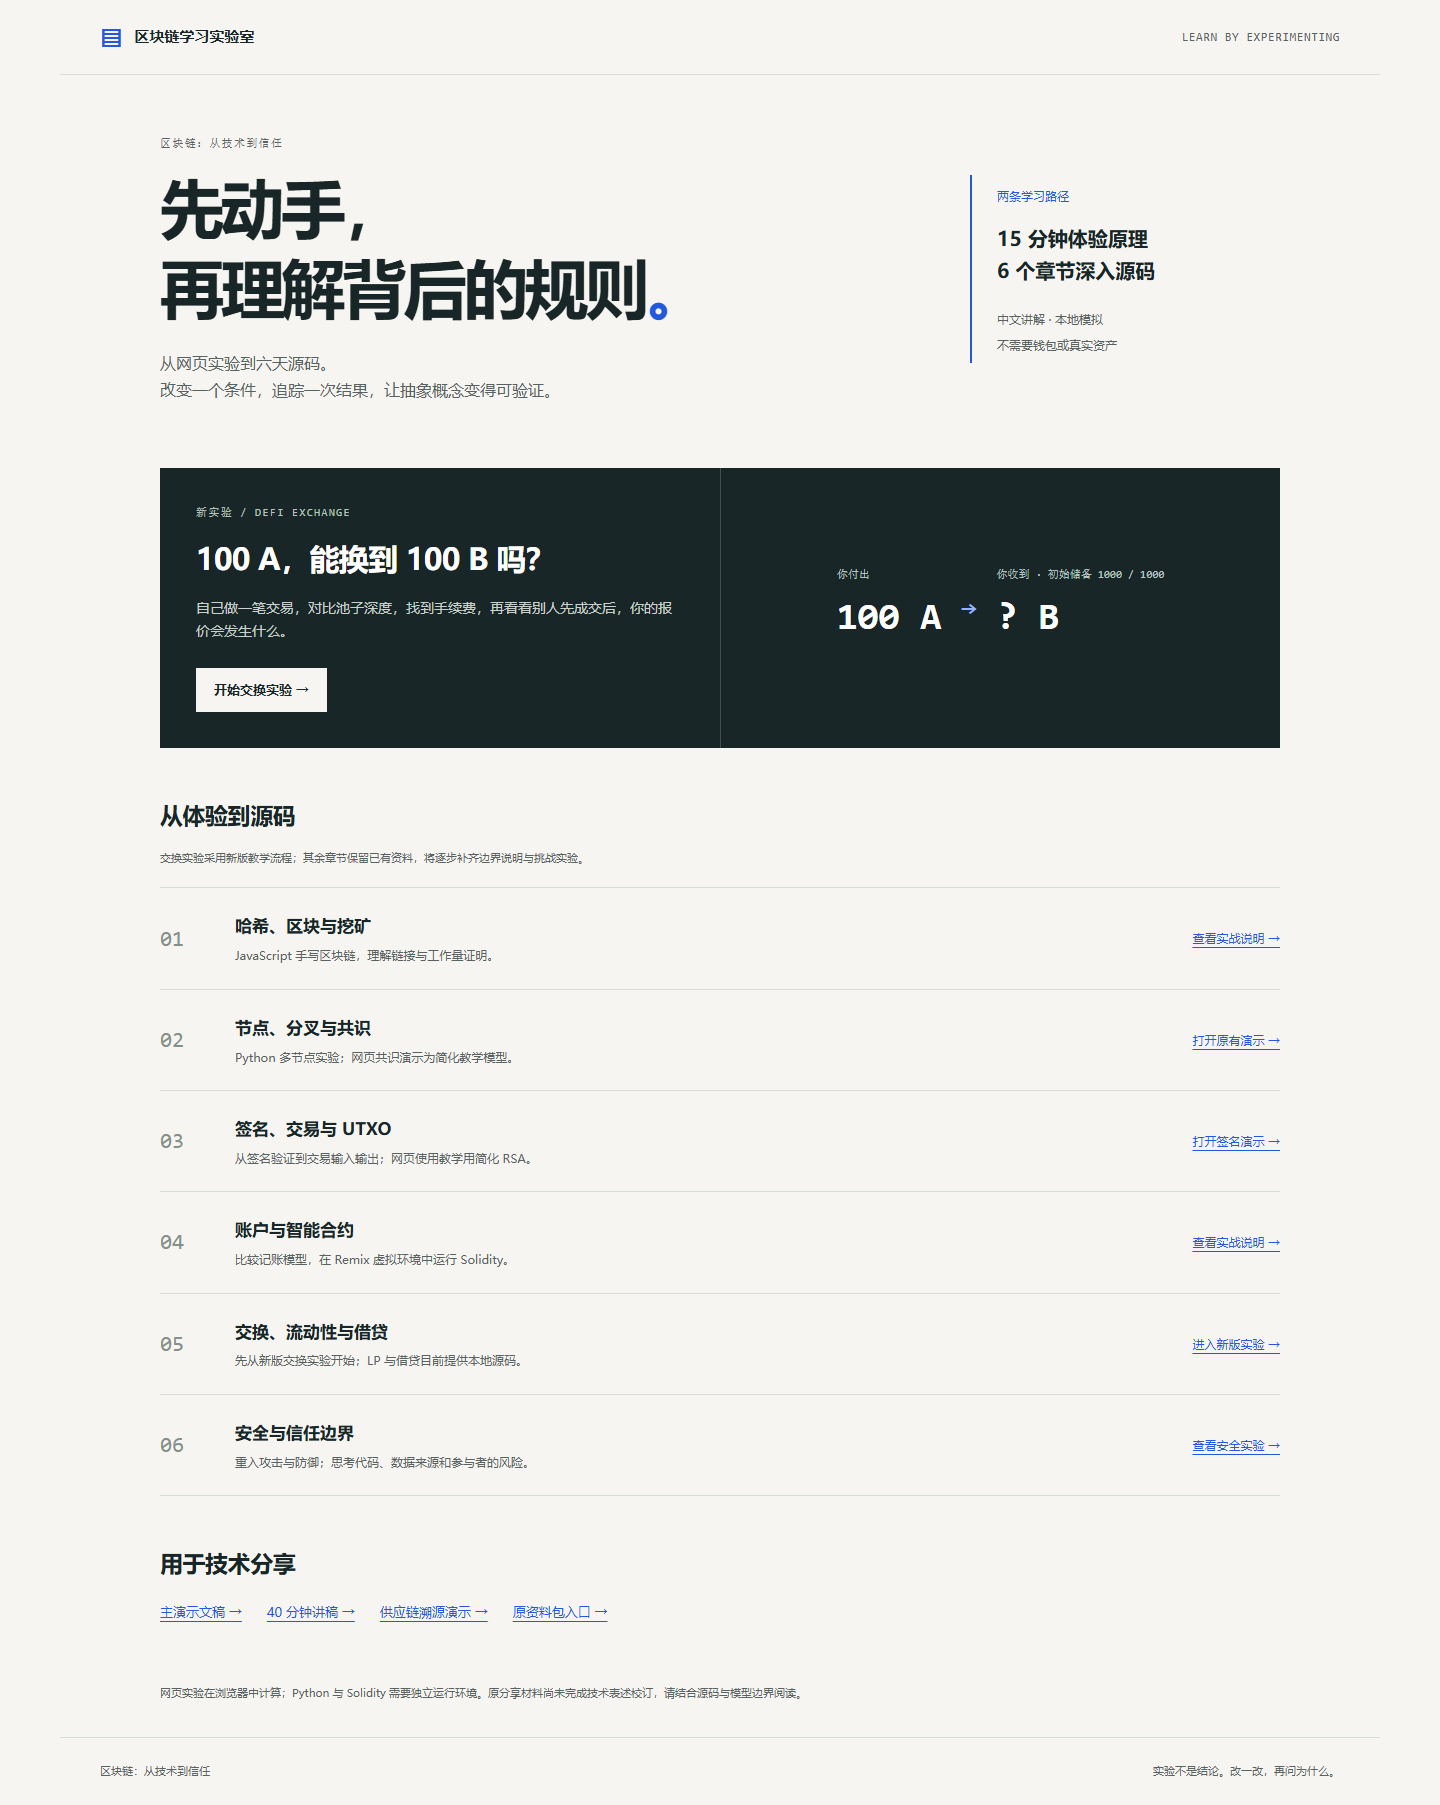
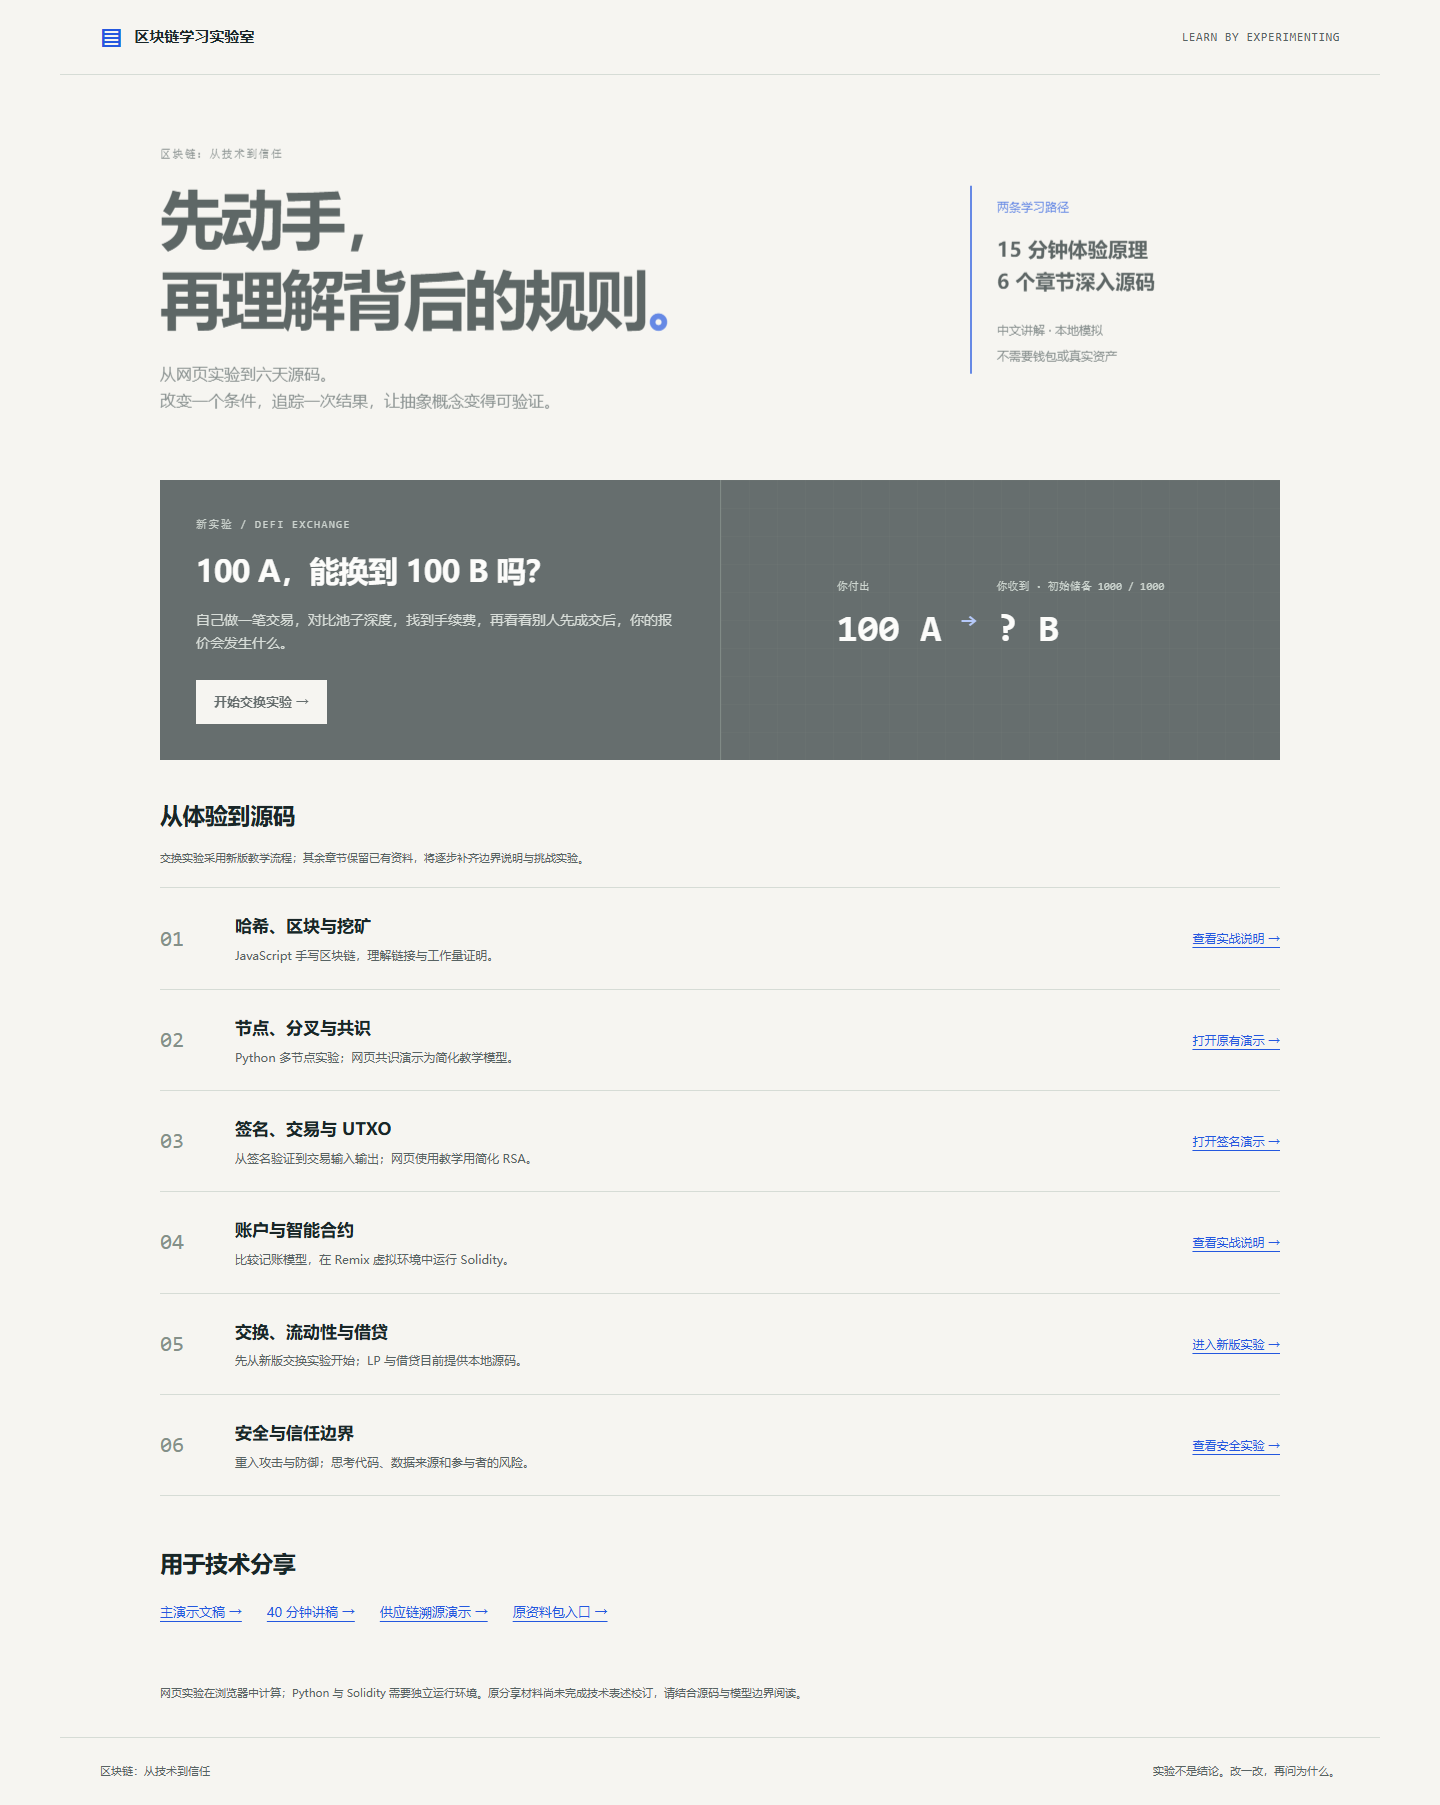
feat: animate learning steps and exchange asset flows

Changed region(s): [[0.0938, 0.062, 0.9062, 0.4343], [0.6875, 0.0931, 0.8125, 0.2172]]

diff --git a/assets/js/exchange.js b/assets/js/exchange.js
@@ -41,6 +41,17 @@
   let predicted = false;
   let initialTotal = { A: 3000n * M.SCALE, B: 3000n * M.SCALE };
   const answered = new Map();
+  // Animate feedback only; exact ledger values update immediately.
+  function motion(elements, frames, duration = 360) {
+    if (window.matchMedia("(prefers-reduced-motion: reduce)").matches) {
+      document.getAnimations().forEach((animation) => animation.cancel());
+      return;
+    }
+    elements.forEach((element) => {
+      element.getAnimations().forEach((animation) => animation.cancel());
+      element.animate(frames, { duration, easing: "cubic-bezier(.2,.7,.3,1)" });
+    });
+  }
   function status(message, kind = "") {
     $("trade-status").textContent = message;
     $("trade-status").className = "feedback " + kind;
@@ -96,6 +107,7 @@
       $(id).textContent = "—";
     status(message);
     render();
+    $("trade-flow").hidden = true;
   }
   function setStep(index) {
     step = index;
@@ -120,6 +132,14 @@
     if (index === 4) {
       reset("报价变化实验已重置：先报价，再让另一账户交易。");
     }
+    motion(
+      [document.querySelector(".lesson-intro")],
+      [
+        { opacity: 0.65, transform: "translateY(7px)" },
+        { opacity: 1, transform: "translateY(0)" },
+      ],
+      240,
+    );
   }
   function reportTrade(result, before) {
     const actor = result.actor === "wallet" ? "你" : "另一账户";
@@ -137,6 +157,36 @@
     $("k-change").textContent =
       "+" + ((Number(newK - oldK) / Number(oldK)) * 100).toFixed(6) + "%";
     render();
+    $("trade-flow").hidden = false;
+    $("flow-actor").textContent = $("flow-recipient").textContent =
+      result.actor === "wallet" ? "你的钱包" : "另一账户";
+    $("flow-input").textContent = fmt(result.input) + " " + result.from + " →";
+    $("flow-output").textContent = fmt(result.output) + " " + result.to + " →";
+    motion(
+      Array.from(document.querySelectorAll(".flow-route i")),
+      [
+        { left: "0%", opacity: 0 },
+        { left: "12%", opacity: 1, offset: 0.15 },
+        { left: "88%", opacity: 1, offset: 0.85 },
+        { left: "100%", opacity: 0 },
+      ],
+      1000,
+    );
+    const changed = [];
+    for (const token of ["A", "B"]) {
+      for (const location of ["pool", "wallet", "other"]) {
+        if (before[location][token] !== state[location][token])
+          changed.push($(location + "-" + token.toLowerCase()));
+      }
+    }
+    motion(
+      changed,
+      [
+        { backgroundColor: "#d9e7ff", color: "#2458df" },
+        { backgroundColor: "transparent", color: "#192627" },
+      ],
+      850,
+    );
   }
   function renderComparison() {
     const depthMode = $("compare-mode").value === "depth";
@@ -242,6 +292,13 @@
       $("execute").disabled = false;
       $("intervene").disabled = false;
       status("报价已保存，尚未扣款。执行时会重新计算实际输出。", "success");
+      motion(
+        [$("quoted-output")],
+        [
+          { color: "#2458df", transform: "translateY(4px)" },
+          { color: "#192627", transform: "translateY(0)" },
+        ],
+      );
     } catch (error) {
       status(error.message, "error");
     }
@@ -331,9 +388,11 @@
   });
   render();
   setStep(0);
-  document.querySelectorAll("[data-step], [data-prediction]").forEach((button) => {
-    button.disabled = false;
-  });
+  document
+    .querySelectorAll("[data-step], [data-prediction]")
+    .forEach((button) => {
+      button.disabled = false;
+    });
   document.body.dataset.ready = "true";
   $("initialization-status").hidden = true;
   $("reload-experiment").hidden = true;

diff --git a/assets/css/lab.css b/assets/css/lab.css
@@ -1083,6 +1083,108 @@ pre {
     padding-bottom: 35px;
   }
 }
+@keyframes lab-arrive {
+  from {
+    opacity: 0.65;
+    transform: translateY(12px);
+  }
+  to {
+    opacity: 1;
+    transform: translateY(0);
+  }
+}
+.hero {
+  animation: lab-arrive 550ms cubic-bezier(0.2, 0.7, 0.3, 1) both;
+}
+.featured {
+  animation: lab-arrive 600ms 80ms cubic-bezier(0.2, 0.7, 0.3, 1) both;
+}
+.hero .blue {
+  display: inline-block;
+  transition: transform 220ms ease;
+}
+.hero:hover .blue {
+  transform: rotate(-7deg);
+}
+.primary,
+.secondary,
+.prediction-options button,
+.chapter-row a {
+  transition:
+    background-color 180ms,
+    box-shadow 180ms,
+    transform 180ms;
+}
+.primary:hover:not(:disabled),
+.secondary:hover:not(:disabled) {
+  transform: translateY(-2px);
+  box-shadow: 0 5px 12px #2458df18;
+}
+.primary:active:not(:disabled),
+.secondary:active:not(:disabled) {
+  transform: translateY(0);
+}
+.chapter-row {
+  transition: background-color 200ms;
+}
+.chapter-row:hover {
+  background: #2458df05;
+}
+.chapter-row a:hover {
+  transform: translateX(3px);
+}
+.featured-figure {
+  background-image: linear-gradient(#ffffff05 1px, transparent 1px),
+    linear-gradient(90deg, #ffffff05 1px, transparent 1px);
+  background-size: 28px 28px;
+}
+.trade-flow {
+  padding: 15px 0 3px;
+}
+.flow-row {
+  display: grid;
+  grid-template-columns: 65px minmax(0, 1fr) 65px;
+  align-items: center;
+  gap: 12px;
+  font-size: 11px;
+}
+.flow-row + .flow-row {
+  margin-top: 10px;
+}
+.flow-row > span:last-child {
+  text-align: right;
+}
+.flow-route {
+  position: relative;
+  border-bottom: 1px solid #b9c9e5;
+  text-align: center;
+  padding-bottom: 6px;
+}
+.flow-route b {
+  font: 11px var(--mono);
+  color: var(--blue);
+  overflow-wrap: anywhere;
+}
+.flow-route i {
+  position: absolute;
+  bottom: -3px;
+  left: 0;
+  width: 5px;
+  height: 5px;
+  border-radius: 50%;
+  background: var(--blue);
+  opacity: 0;
+}
+.flow-return .flow-route {
+  border-color: #b8d1c2;
+}
+.flow-return .flow-route b,
+.flow-return .flow-route i {
+  color: var(--green);
+}
+.flow-return .flow-route i {
+  background: var(--green);
+}
 @media (prefers-reduced-motion: reduce) {
   * {
     transition: none !important;

diff --git a/03-演示文稿/defi-exchange.html b/03-演示文稿/defi-exchange.html
@@ -39,10 +39,17 @@
       <p id="initialization-status" class="feedback" role="status">
         正在准备实验，请稍候。
       </p>
-      <a id="reload-experiment" href="defi-exchange.html" hidden>重新加载实验 →</a>
-      <noscript><p>本实验需要启用 JavaScript。你也可以下载资料，运行 Python 实验。</p></noscript>
+      <a id="reload-experiment" href="defi-exchange.html" hidden
+        >重新加载实验 →</a
+      >
+      <noscript
+        ><p>
+          本实验需要启用 JavaScript。你也可以下载资料，运行 Python 实验。
+        </p></noscript
+      >
       <nav class="steps" aria-label="实验步骤">
-        <button data-step="0" aria-current="step" disabled><span>01</span>先预测</button
+        <button data-step="0" aria-current="step" disabled>
+          <span>01</span>先预测</button
         ><button data-step="1" disabled><span>02</span>做交换</button
         ><button data-step="2" disabled><span>03</span>比深度</button
         ><button data-step="3" disabled><span>04</span>查费用</button
@@ -196,6 +203,25 @@
                 <span id="reserve-track-a"></span>
               </div>
               <p>储备比例决定当前边际价格；它不等于整笔交易的成交均价。</p>
+            </div>
+            <div
+              id="trade-flow"
+              class="trade-flow"
+              hidden
+              aria-label="最近交易的资金流向"
+            >
+              <div class="flow-row">
+                <span id="flow-actor">你的钱包</span
+                ><span class="flow-route"
+                  ><b id="flow-input"></b><i aria-hidden="true"></i></span
+                ><span>池子</span>
+              </div>
+              <div class="flow-row flow-return">
+                <span>池子</span
+                ><span class="flow-route"
+                  ><b id="flow-output"></b><i aria-hidden="true"></i></span
+                ><span id="flow-recipient">你的钱包</span>
+              </div>
             </div>
             <table class="ledger-table">
               <caption>
